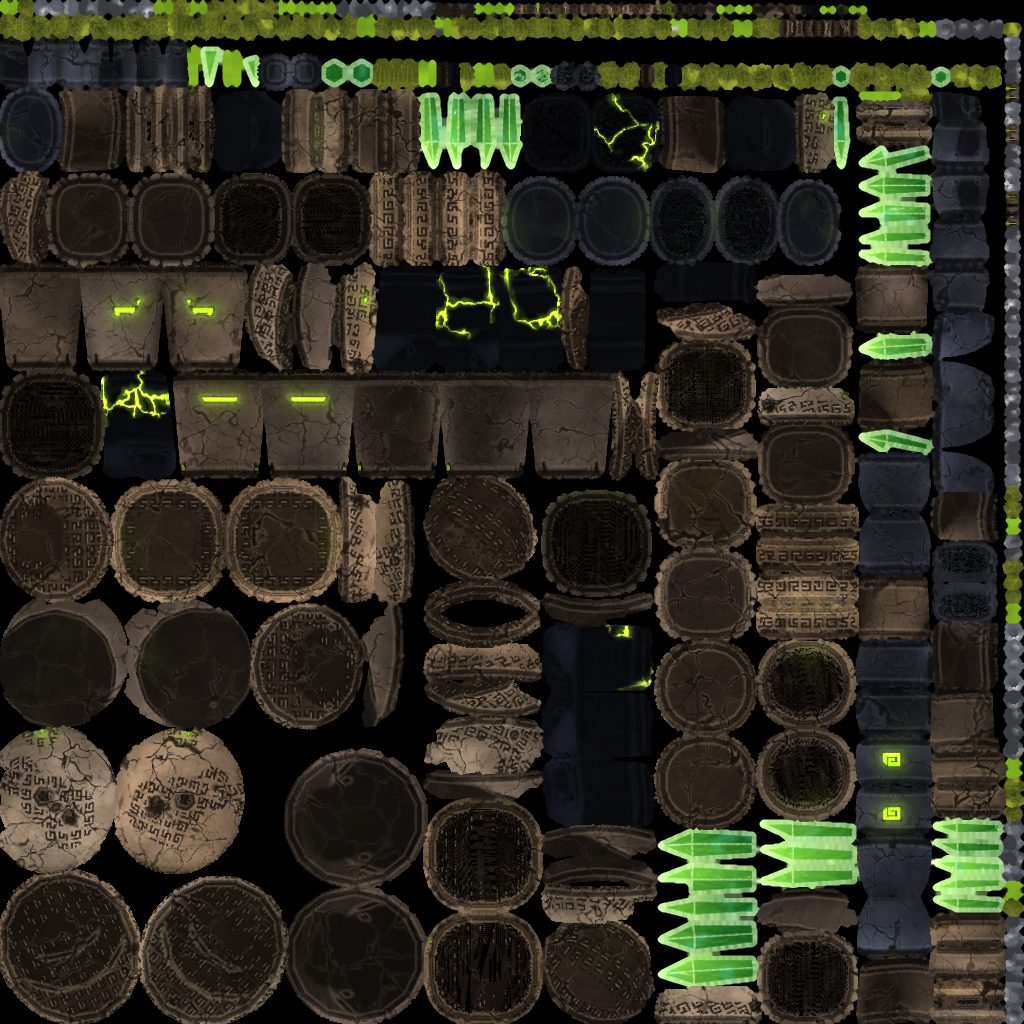
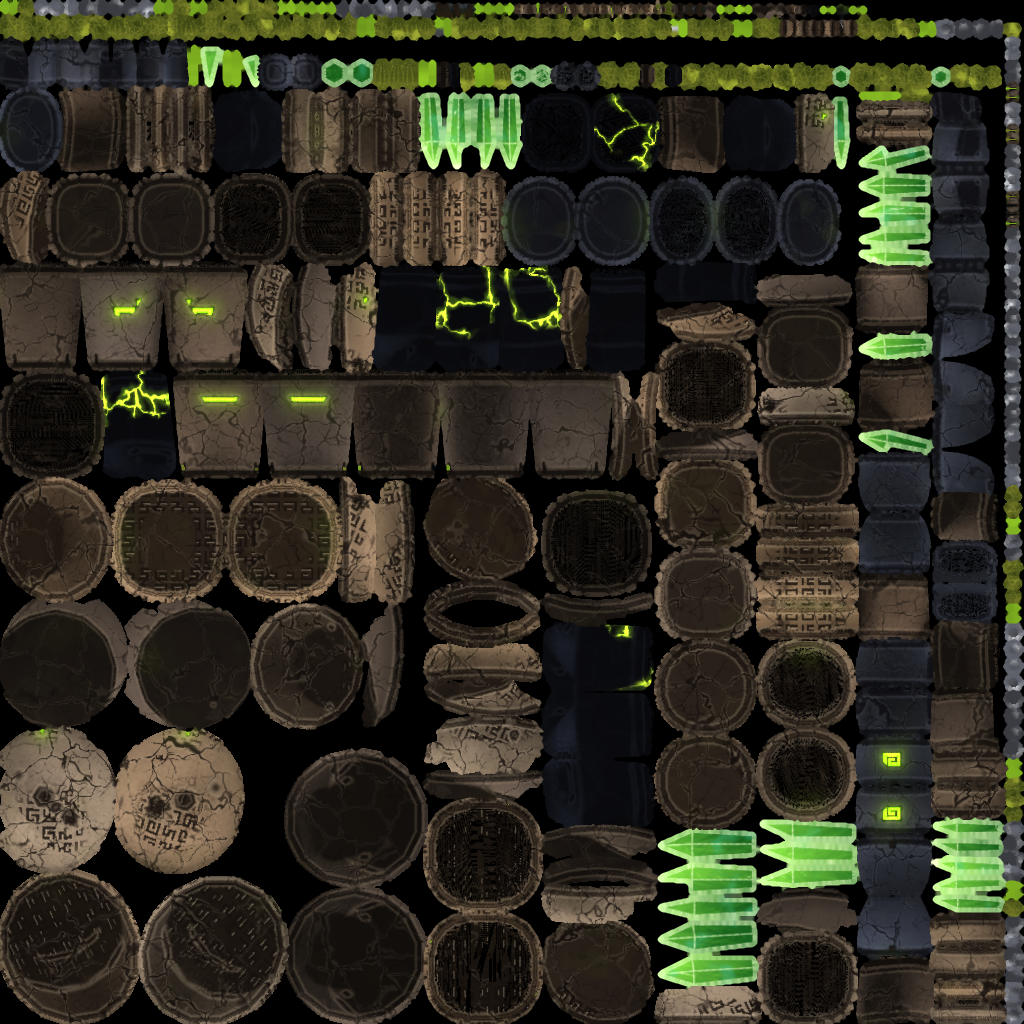
vault backup: 2026-11-12 13:55:46

diff --git a/TITAN ARC/Art/Stone scripts/stone_v10_paint.py b/TITAN ARC/Art/Stone scripts/stone_v10_paint.py
@@ -204,7 +204,7 @@ GLY = [np.array(g, np.float32) for g in (
     [[1,1,1,0,0],[0,0,1,0,0],[1,1,1,1,1],[1,0,0,0,1],[1,1,0,1,1]],
     [[0,1,1,1,1],[0,1,0,0,0],[0,1,1,1,0],[0,0,0,1,0],[1,1,1,1,0]])]
 GLYS = np.stack(GLY)
-def glyph_mask(P, Nn, cell=13.0, seed=7):
+def glyph_mask(P, Nn, cell=17.0, seed=7):
     ax = np.argmax(np.abs(Nn), 1)
     u = np.where(ax == 0, P[:, 1], P[:, 0]); v = np.where(ax == 2, P[:, 1], P[:, 2])
     cu = np.floor(u / cell); cv = np.floor(v / cell)
@@ -223,8 +223,8 @@ def paint_stone(sel, base, lightc, darkc, crack_amt, moss_amt, wear=1.0, glyphs=
     P = pos[sel]
     b = np.tile(base, (sel.sum(), 1))
     # cloudy mottling (Korblox: soft light/dark blotches) + grain
-    cloud = sstep(0.35, 0.68, fbm(P, 30.0, 3, 101))
-    v = 1.0 + 0.05 * ct[sel, 0] + 0.22 * (big[sel] - 0.5) + 0.20 * (cloud - 0.5) + 0.10 * (med[sel] - 0.5) + 0.07 * (fine[sel] - 0.5) + 0.05 * (grit[sel] - 0.5)
+    cloud = fbm(P, 34.0, 3, 101)
+    v = 1.0 + 0.05 * ct[sel, 0] + 0.20 * (big[sel] - 0.5) + 0.22 * (cloud - 0.5) + 0.06 * (med[sel] - 0.5) + 0.04 * (fine[sel] - 0.5)
     b = b * v[:, None]
     b[:, 0] *= 1 + 0.045 * ct[sel, 1]; b[:, 2] *= 1 - 0.06 * ct[sel, 1] + 0.05 * (big[sel] - 0.5)
     b = b * (0.62 + 0.62 * shade_dir[sel])[:, None]                                                       # painted light, a bit softer
@@ -246,7 +246,8 @@ def paint_stone(sel, base, lightc, darkc, crack_amt, moss_amt, wear=1.0, glyphs=
     # carved glyph band along plate borders
     if glyphs > 0:
         on, glip = glyph_mask(P, nor[sel])
-        band = sstep(2.8, 3.8, d_cvx[sel]) * sstep(16.5, 15.0, d_cvx[sel]) * (span[sel].max(1) > 95.0) * glyphs
+        flat = sstep(0.86, 0.93, np.abs(nor[sel]).max(1))      # only on flat faces: on curved ones the plane flips and the glyphs turn into scribbles
+        band = sstep(2.8, 3.8, d_cvx[sel]) * sstep(20.5, 19.0, d_cvx[sel]) * (span[sel].max(1) > 95.0) * flat * glyphs
         b = mix(b, darkc * 0.75, on * band * 0.8); b = mix(b, lightc, glip * band * 0.35)
     # moss / lichen on tops and in corners
     ms = sstep(0.52, 0.72, fbm(P, 26.0, 3, 41)) * np.clip(0.3 + 0.7 * np.maximum(up[sel], 0) + 0.15 * (1 - occ), 0, 1) * moss_amt
